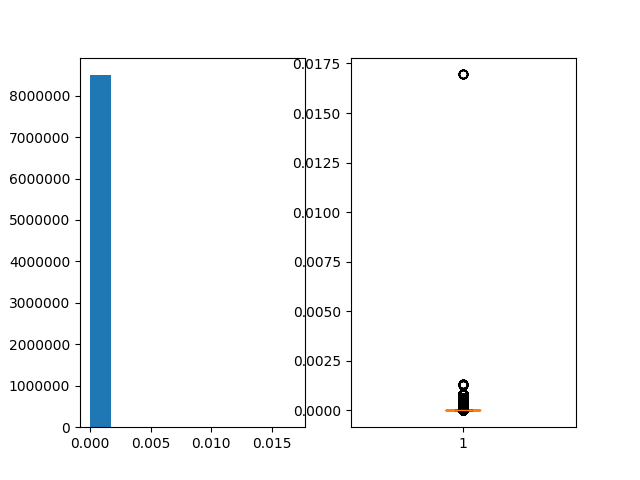
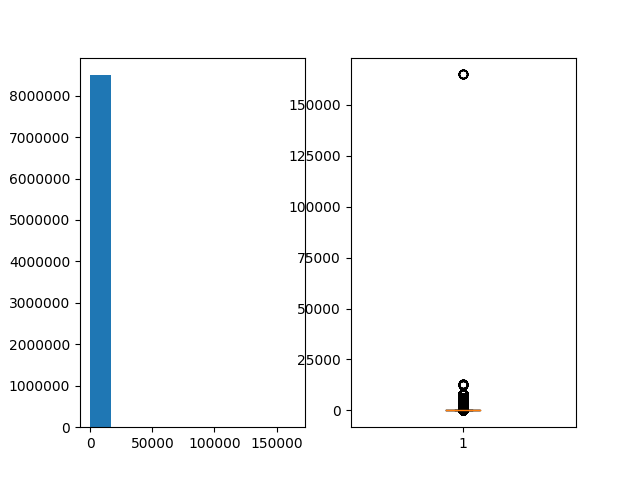
test graphics

diff --git a/threshold_handler/analysis.py b/threshold_handler/analysis.py
@@ -20,10 +20,75 @@ def get_bam_function(strategy):
         "pmi": bam.pmi,
         "llr": bam.likelihood_ratio,
         "dice": bam.dice,
-        "chi_square": bam.chi_sq,
-        "freq": bam.raw_freq
+        "chi_square": bam.chi_sq
     }
     return functions[strategy]
+
+def histogram_freq_local(d, k, output_name):
+    print("CALCULATING FREQ FOR TRAIN DATASET")
+    values = []
+    progress = tqdm(d.train_data)
+    for i in progress:
+        if len(i) > k:
+            windows = bcf.from_words(i, window_size=k)
+            for pairs in windows.ngram_fd.items():
+                pmi = pairs[1]
+                w1 = pairs[0][0]
+                w2 = pairs[0][1]
+                values.append(pmi)
+
+    print("CALCULATING FREQ FOR TEST DATASET")
+    progress = tqdm(d.test_data)
+    for i in progress:
+        if len(i) > k:
+            windows = bcf.from_words(i, window_size=k)
+            for pairs in windows.ngram_fd.items():
+                pmi = pairs[1]
+                w1 = pairs[0][0]
+                w2 = pairs[0][1]
+                values.append(pmi)
+    print(len(values))
+
+    fig, axs = plt.subplots(1, 2)
+    axs[0].hist(values)
+    axs[1].boxplot(values)
+    plt.savefig(output_name)
+    plt.close()
+
+def histogram_freq_global(d, k, output_name):
+    values = []
+    windows = bcf.from_words(utils.all_docs_to_one_tokens_list(d), window_size=k)
+    global_pmi = dict(windows.ngram_fd.items())
+    print("CALCULATING MEASURE FOR TRAIN DATASET")
+    progress = tqdm(d.train_data)
+    for i in progress:
+        g = TextGraph(d.dataset)
+        if len(i) > k:
+            t_windows = bcf.from_words(i, window_size=k)
+            for pairs in t_windows.score_ngrams(bam.pmi):
+                pmi = global_pmi[pairs[0]]
+                w1 = pairs[0][0]
+                w2 = pairs[0][1]
+                values.append(pmi)
+
+    print("CALCULATING MEASURE FOR TEST DATASET")
+    progress = tqdm(d.test_data)
+    for i in progress:
+        if len(i) > k:
+            t_windows = bcf.from_words(i, window_size=k)
+            for pairs in t_windows.score_ngrams(bam.pmi):
+                pmi = global_pmi[pairs[0]]
+                w1 = pairs[0][0]
+                w2 = pairs[0][1]
+                values.append(pmi)
+    print(len(values))
+
+    fig, axs = plt.subplots(1, 2)
+    axs[0].hist(values)
+    axs[1].boxplot(values)
+    plt.savefig(output_name)
+    plt.close()
+
 
 def histogram_strategy_local(d, k, strategy, output_name):
     print("CALCULATING MEASURE FOR TRAIN DATASET")
@@ -66,7 +131,7 @@ def histogram_strategy_global(d, k, strategy, output_name):
         g = TextGraph(d.dataset)
         if len(i) > k:
             t_windows = bcf.from_words(i, window_size=k)
-            for pairs in t_windows.score_ngrams(get_bam_function(strategy)):
+            for pairs in t_windows.score_ngrams(bam.pmi):
                 pmi = global_pmi[pairs[0]]
                 w1 = pairs[0][0]
                 w2 = pairs[0][1]
